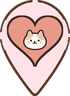
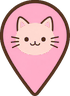
Wishlist pin: clean pink recolour of the cat pin (no heart); bump ui20261015da

diff --git a/app.js b/app.js
@@ -192,7 +192,7 @@ function pagerHtml(pages,total,label){if(total<=PAGE_SIZE)return '';return `<div
 function card(r){const vv=visits(r.id);return `<article class="restaurant no-tile"><div class="info" role="button" tabindex="0" data-detail="${r.id}"><h3>${esc(r.name)}</h3>${rating(r)}<p class="visit-meta">♜ ${vv.length} visit${vv.length===1?'':'s'}${vv[0]?` · last ${fmt(vv[0].date)}`:''}</p><p class="address">♧ ${esc(r.address||'Location not added')}</p>${tags(r)}<p class="note">▤ ${esc(r.note||'Add a little note…')}</p></div><div class="right-meta"><button class="save" data-save="${r.id}" aria-label="${r.wish?'Remove from':'Add to'} wishlist">${r.wish?'▮':'♧'}</button></div><button class="chevron" data-detail="${r.id}" aria-label="Open ${esc(r.name)}">›</button></article>`}
 
 let wishKeep=new Set(),wishKeepTab=null;
-const HEART_ON='assets/icon-wish-meow.png?v=ui20261015cz',HEART_OFF='assets/icon-wish-meow-off.png?v=ui20261015cz';
+const HEART_ON='assets/icon-wish-meow.png?v=ui20261015da',HEART_OFF='assets/icon-wish-meow-off.png?v=ui20261015da';
 const CUISINE_LABEL={ramen:'Ramen',sushi:'Sushi',japanese:'Japanese',cafe:'Cafe',matcha:'Matcha',tea:'Tea',boba:'Boba',dessert:'Dessert',bakery:'Bakery',burger:'Burger',pasta:'Italian',pizza:'Pizza',steak:'Steak',chinese:'Chinese',korean:'Korean',thai:'Thai',indian:'Indian',hongkong:'Hong Kong',singaporean:'Singaporean',mideast:'Middle Eastern',shop:'Restaurant'};
 function cuisineOf(r){const k=foodKey(r);if(k.startsWith('icon/')){const d=k.split('/')[1]||'';return {key:k,label:d.split('-').map(w=>w[0]?.toUpperCase()+w.slice(1)).join(' ')||tlCat(r)}}return {key:k,label:CUISINE_LABEL[k]||tlCat(r)}}
 function areaOf(r){const parts=String(r.address||'').split(',').map(x=>x.trim()).filter(x=>x&&!/^[A-Z]\d[A-Z]\s?\d[A-Z]\d$/i.test(x)&&!/^(BC|British Columbia|Canada|ON|Ontario|AB|WA|USA)(\s+[A-Z]\d[A-Z].*)?$/i.test(x));if(!parts.length)return '';if(parts.length>=3)return parts[1];if(parts.length===2&&/^\d/.test(parts[0]))return parts[1];return parts[0]}
@@ -374,7 +374,7 @@ function pinTier(){const z=map?map.getZoom():mapZoom;return z>=14?'full':z>=12?'
 function searchPinTier(){const z=map?map.getZoom():mapZoom;return z>=16?'full':'meow'}
 // ui20261015cy: three meow marker styles (visited · wishlist · search/explore), all switching pin↔label with searchPinTier() (label at zoom ≥ 16)
 function markerIcon(r){const isSel=r.id===selected||(r.id===searchLinkId&&searchFocusIdx!=null&&searchResults.length>0);const t=searchPinTier(),sel=isSel?' selected':'';const last=visits(r.id)[0],wishy=!!r.wish&&!last;
-  if(t==='meow'){const sz=isSel?[30,41]:[24,33];return window.L.icon({iconUrl:wishy?'assets/meow-map-pin-wish.png?v=ui20261015cz':'assets/meow-map-pin.png?v=ui20261015x',iconSize:sz,iconAnchor:[sz[0]/2,sz[1]],className:'meow-pin '+(wishy?'meow-pin-wish':'meow-pin-visited')+sel})}
+  if(t==='meow'){const sz=isSel?[30,41]:[24,33];return window.L.icon({iconUrl:wishy?'assets/meow-map-pin-wish.png?v=ui20261015da':'assets/meow-map-pin.png?v=ui20261015x',iconSize:sz,iconAnchor:[sz[0]/2,sz[1]],className:'meow-pin '+(wishy?'meow-pin-wish':'meow-pin-visited')+sel})}
   const meta=last?(mapChipRelativeLabel(last.date)||'visited'):(r.wish?'on your wishlist':'never visited');
   return window.L.divIcon({className:'restaurant-pin pin-full',html:`<div class="map-chip ${wishy?'chip-wish':'chip-visited'}${sel}">${sel?'<i class="pin-burst" aria-hidden="true"></i>':''}<b>${wishy?'<img class="chip-heart" src="'+HEART_ON+'" alt="">':''}${esc(r.name)}</b>${meta?`<small>${esc(meta)}</small>`:''}</div>`,iconSize:null,iconAnchor:[0,0]})}
 function updateMarkerIcons(){markers.forEach(m=>m.setIcon(markerIcon(m._r)));searchMarkers.forEach((m,i)=>{if(m&&searchResults[i])m.setIcon(searchResultIcon(searchResults[i],i))});if(exploreLayer)exploreLayer.eachLayer(m=>{if(m&&m._explore)m.setIcon(exploreResultIcon(m._explore))})}

diff --git a/index.html b/index.html
@@ -20,21 +20,21 @@
 <link href="https://fonts.googleapis.com/css2?family=Gaegu:wght@700&family=Nunito:wght@400;600;700;800;900&display=swap" rel="stylesheet">
 <link rel="stylesheet" href="vendor/leaflet.css">
 <link rel="stylesheet" href="vendor/maplibre-gl.css">
-<link rel="stylesheet" href="style.css?v=ui20261015cz">
-<link rel="stylesheet" href="mobile.css?v=ui20261015cz">
-<link rel="stylesheet" href="viewport.css?v=ui20261015cz">
-<link rel="stylesheet" href="restaurant-flow.css?v=ui20261015cz">
-<link rel="stylesheet" href="auth-panels.css?v=ui20261015cz">
-<link rel="stylesheet" href="theme-sync.css?v=ui20261015cz">
-<link rel="stylesheet" href="ui-polish.css?v=ui20261015cz">
+<link rel="stylesheet" href="style.css?v=ui20261015da">
+<link rel="stylesheet" href="mobile.css?v=ui20261015da">
+<link rel="stylesheet" href="viewport.css?v=ui20261015da">
+<link rel="stylesheet" href="restaurant-flow.css?v=ui20261015da">
+<link rel="stylesheet" href="auth-panels.css?v=ui20261015da">
+<link rel="stylesheet" href="theme-sync.css?v=ui20261015da">
+<link rel="stylesheet" href="ui-polish.css?v=ui20261015da">
 <script defer src="vendor/leaflet.js"></script>
 <script defer src="vendor/maplibre-gl.js"></script>
 <script defer src="vendor/leaflet-maplibre-gl.js"></script>
-<script defer src="logic.js?v=ui20261015cz"></script>
-<script defer src="app.js?v=ui20261015cz"></script>
-<link rel="stylesheet" href="meowsto.css?v=ui20261015cz">
-<link rel="stylesheet" href="map-mock.css?v=ui20261015cz">
-<link rel="stylesheet" href="timeline-mock.css?v=ui20261015cz">
+<script defer src="logic.js?v=ui20261015da"></script>
+<script defer src="app.js?v=ui20261015da"></script>
+<link rel="stylesheet" href="meowsto.css?v=ui20261015da">
+<link rel="stylesheet" href="map-mock.css?v=ui20261015da">
+<link rel="stylesheet" href="timeline-mock.css?v=ui20261015da">
 </head>
 <body class="locked">
 <div id="lockscr">
